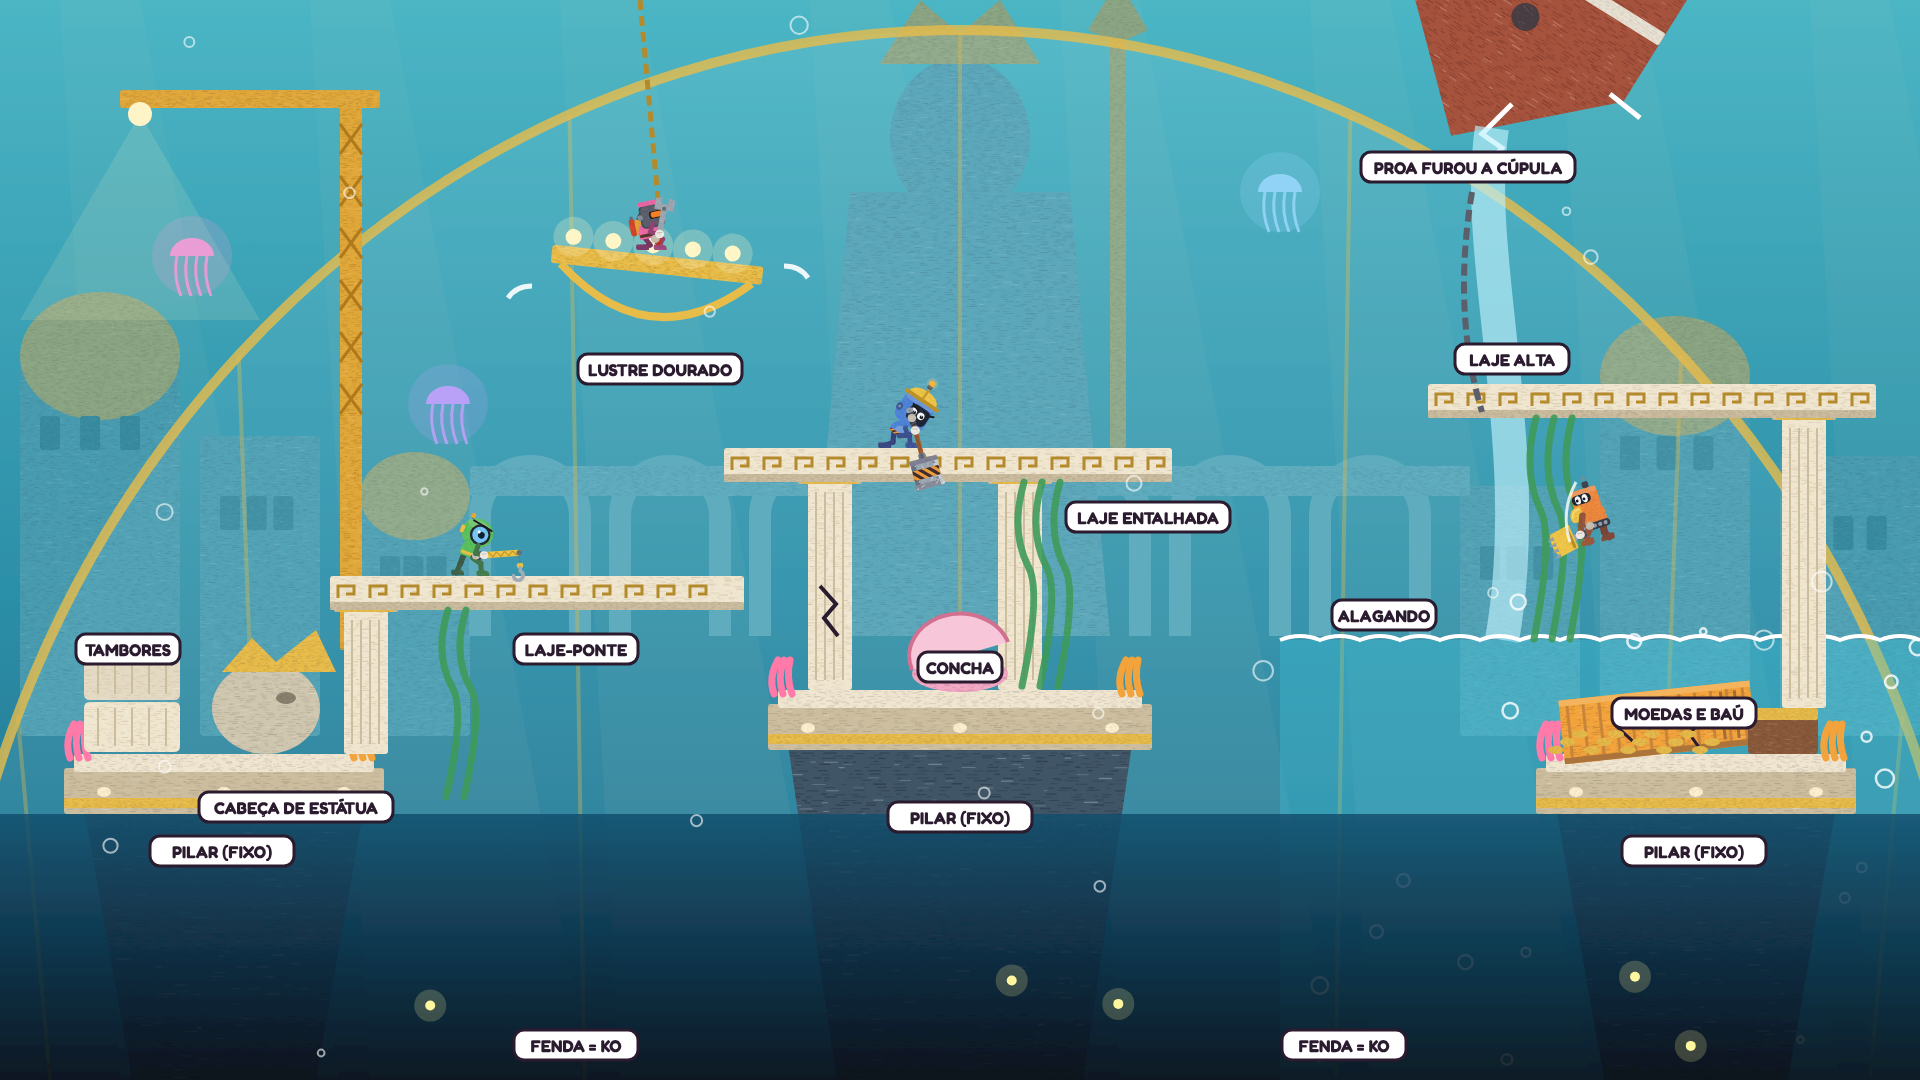
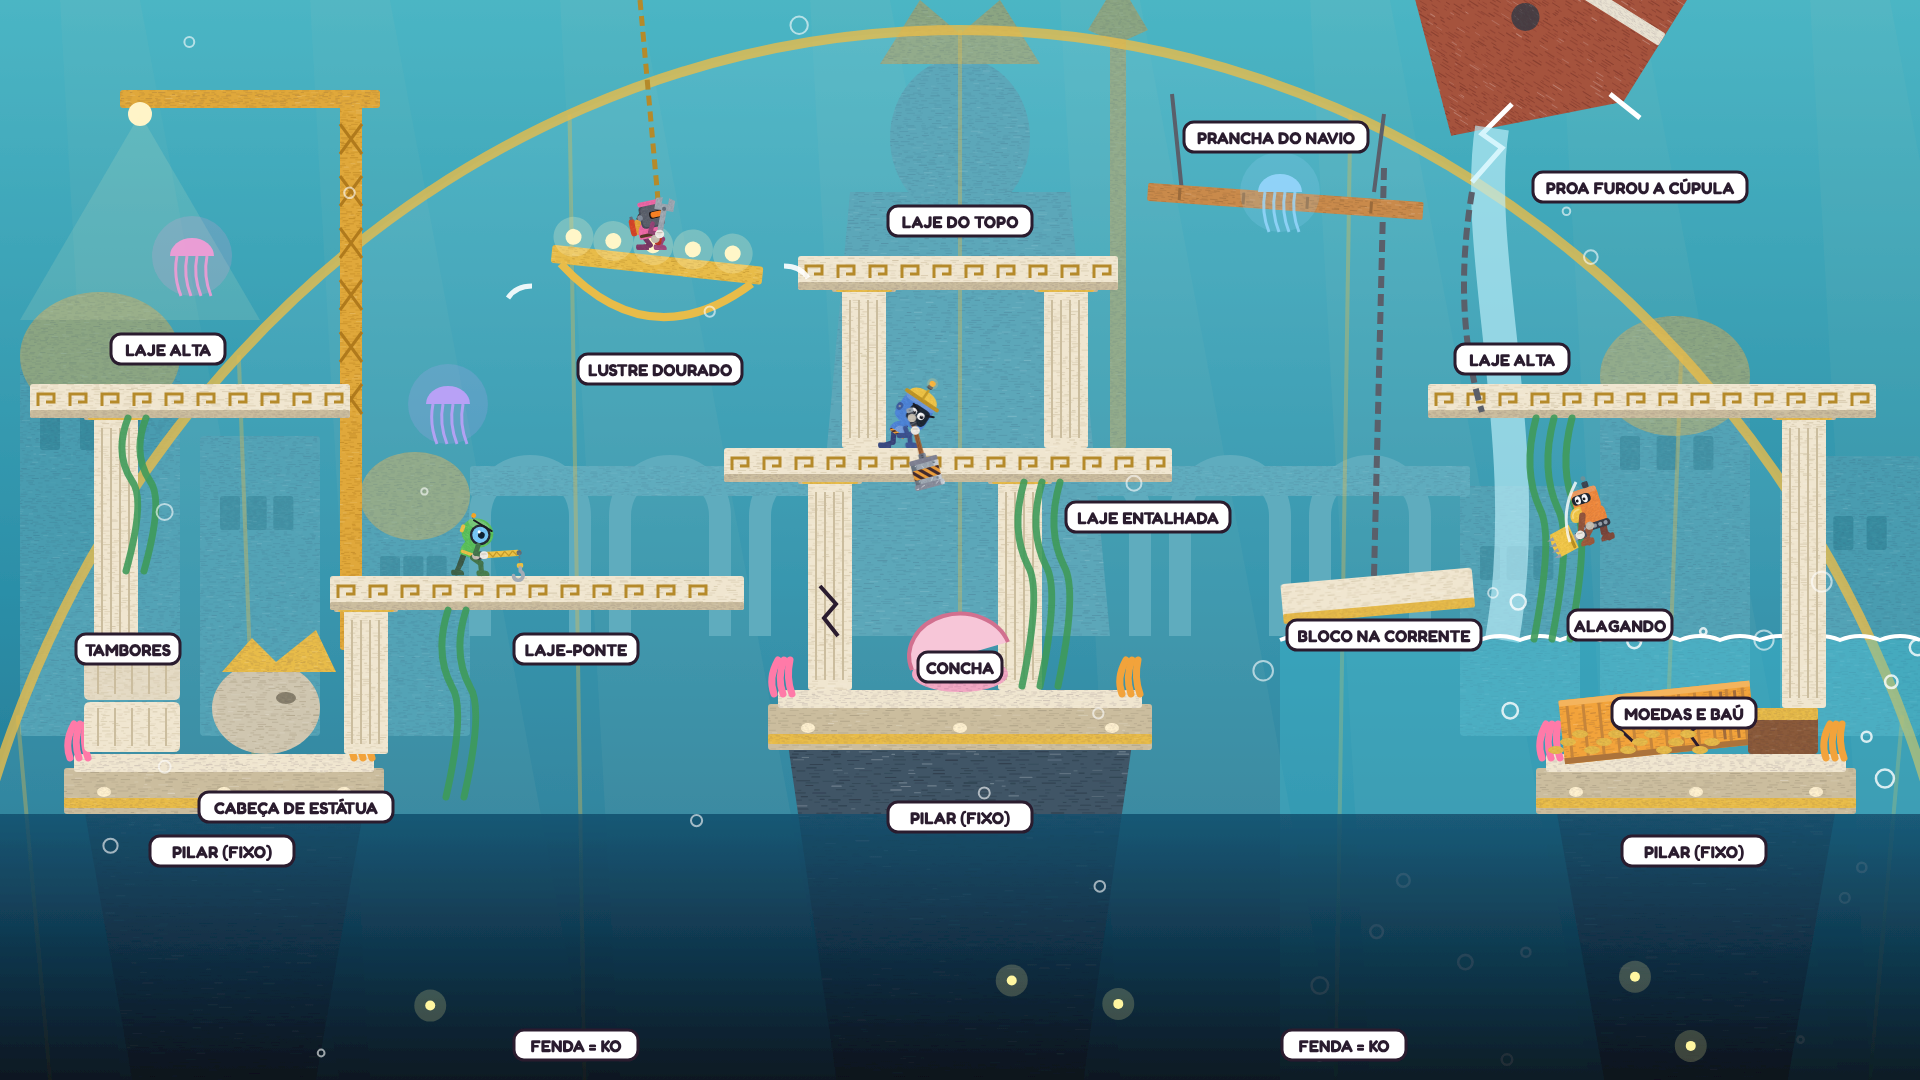
Cargueiro: composição dos Destroços em 3 andares e mais plataformas em Atlântida
Claude-Session: https://claude.ai/code/session_018QUPBQj4sLX3w64QQJCiVt

diff --git a/art/src/cenarios/f2_prancha.py b/art/src/cenarios/f2_prancha.py
@@ -354,7 +354,7 @@ def c2_navio_fundo():
         o += f'<path d="M1010,{372 + k * 90} q30,40 60,10" stroke="#c9a46a" stroke-width="3" fill="none"/>'
     o += f'<path d="M1120,300 l18,26 l-14,18 l20,24 l-16,22 l22,24 l-18,26 l20,22" stroke="{INK}" stroke-width="4" fill="none"/>'
     # contêineres escorregando pelo convés inclinado
-    for k, (x, c) in enumerate([(420, 0), (560, 3), (760, 1)]):
+    for k, (x, c) in enumerate([(700, 0), (860, 3)]):
         o += f'<g transform="rotate({8 - k * 6} {x} 260)">' + R(x, 216, 130, 44, shade(CONT[c], -0.1), 2, 1.0) + "</g>"
     o += gaivota(620, 210, 1.0, True) + gaivota(880, 212, 1.0, True)
     o += "</g>"
@@ -397,8 +397,14 @@ def c2_palco():
     for k in range(11):
         y = T + 20 + k * 64
         o += f'<path d="M{28 * T},{y} l26,40 M{28 * T + 26},{y} l-26,40" stroke="#b07a1e" stroke-width="3"/>'
-    o += R(11 * T, 1 * T - 14, 18 * T, 20, "#e0a83a", 3, 1.4) + R(28 * T - 30, 1 * T - 60, 80, 46, "#cfd3da", 3, 1.2)
+    o += R(3 * T, 1 * T - 14, 26 * T, 20, "#e0a83a", 3, 1.4) + R(28 * T - 30, 1 * T - 60, 80, 46, "#cfd3da", 3, 1.2)
     o += sign(23 * T + 30, 13 * T - 60, "BOTA-ABAIXO", 170)
+    # contêiner pendurado na ponta da lança (nível 5, esquerda) — QUEBRA, balança
+    o += f'<path d="M{5 * T},{1 * T + 6} L{4 * T + 40},{4 * T + 20} M{7 * T},{1 * T + 6} L{7 * T + 10},{4 * T + 20}" stroke="{INK}" stroke-width="3"/>'
+    o += f'<g transform="rotate(-4 {6 * T} {5 * T})">' + conteiner(4 * T + 20, 4 * T + 20, 3 * T + 10, T - 8, CONT[5], 0, True) + "</g>"
+    # tábua do meio (nível 9) ligando o arco à balsa, pendurada da lança por dois cabos
+    o += f'<path d="M{18 * T + 30},{1 * T + 6} V{9 * T} M{22 * T + 30},{1 * T + 6} V{9 * T}" stroke="{INK}" stroke-width="3"/>'
+    o += tabua(18 * T, 9 * T, 5 * T)
     # coqueiro torto e boia de sinalização na rocha da esquerda
     o += f'<path d="M{1 * T + 40},{12 * T} q-20,-120 50,-230" stroke="#8a6b4f" stroke-width="16" fill="none"/>'
     for a in range(5):
@@ -429,20 +435,20 @@ def c2_palco():
     # ---- QUEBRA: mastro-ponte (dos contêineres da esquerda até o pedaço do convés)
     o += f'<g transform="rotate(-10 {5 * T} {10 * T})">' + R(5 * T, 10 * T - 40, 7 * T, 18, "#9a9aa8", 3, 1.4, dark="#6b6b7a") + "</g>"
     # ---- QUEBRA: rede de carga no gancho (nível 5): caixas dentro, balança
-    o += f'<path d="M{17 * T},{1 * T + 6} L{17 * T + 10},{4 * T}" stroke="{INK}" stroke-width="4"/>'
-    o += f'<g transform="rotate(6 {17 * T} {5 * T})">'
+    o += f'<path d="M{17 * T - 4 * T},{1 * T + 6} L{17 * T + 10 - 4 * T},{4 * T}" stroke="{INK}" stroke-width="4"/>'
+    o += f'<g transform="translate({-4 * T},0) rotate(6 {17 * T} {5 * T})">'
     for k in range(3):
         o += R(15 * T + 50 + k * 66, 4 * T + 34, 60, 50, "#c98a4b" if k != 1 else "#b07a3e", 3, 1.0)
     o += f'<path d="M{15 * T + 40},{4 * T + 20} Q{17 * T},{5 * T + 70} {18 * T + 50},{4 * T + 20}" stroke="#5a4a3a" stroke-width="4" fill="none"/>'
     for k in range(6):
         o += f'<path d="M{15 * T + 50 + k * 34},{4 * T + 24} l20,56" stroke="#5a4a3a" stroke-width="3"/>'
     o += "</g>"
-    o += f'<path d="M{15 * T + 20},{5 * T + 10} q-16,0 -24,12 M{18 * T + 70},{5 * T} q16,0 24,12" stroke="#ffffff" stroke-width="5" fill="none" opacity="0.9"/>'
-    # ---- QUEBRA: contêineres na balsa + tábuas da torre (nível 6)
+    o += f'<path d="M{11 * T + 20},{5 * T + 10} q-16,0 -24,12 M{14 * T + 70},{5 * T} q16,0 24,12" stroke="#ffffff" stroke-width="5" fill="none" opacity="0.9"/>'
+    # ---- QUEBRA: contêineres na balsa + tábuas da torre (nível 5)
     o += conteiner(23 * T + 30, 12 * T, 3 * T, T, CONT[1], 0, True) + conteiner(26 * T + 20, 12 * T, 2 * T + 20, T, CONT[3], 1)
     o += conteiner(23 * T + 50, 11 * T, 3 * T - 10, T, CONT[6], 2)
-    o += tabua(21 * T, 6 * T, 7 * T - 10)
-    o += f'<path d="M{21 * T + 20},{1 * T + 6} V{6 * T}" stroke="{INK}" stroke-width="3"/>'
+    o += tabua(21 * T, 5 * T, 7 * T - 10)
+    o += f'<path d="M{21 * T + 20},{1 * T + 6} V{5 * T}" stroke="{INK}" stroke-width="3"/>'
     # vida: caranguejos e gaivota pousada
     for x, y in [(3 * T + 40, 10 * T - 4), (14 * T + 20, 11 * T - 10)]:
         o += E(x, y, 12, 8, "#e06a4a", 0.8) + f'<path d="M{x - 12},{y} l-8,-8 M{x + 12},{y} l8,-8" stroke="#e06a4a" stroke-width="3"/>'
@@ -453,9 +459,9 @@ def c2_palco():
 def c2_atores():
     o = robot("pa", "pesado_prep", el.COLORS[4], 3 * T, 10 * T - 4)
     o += robot("marretao", "rapido", el.COLORS[0], 14 * T + 20, 8 * T + 4)
-    o += robot("chave", "esquiva", el.COLORS[2], 17 * T, 4 * T + 30, flip=True)
+    o += robot("chave", "esquiva", el.COLORS[2], 13 * T, 4 * T + 30, flip=True)
     o += robot("britadeira", "pesado_golpe", el.COLORS[3], 7 * T + 60, MAR2 - 46)
-    o += f'<path d="M{16 * T + 20},{4 * T} h-50 M{16 * T + 26},{4 * T + 14} h-40" stroke="#ffffff" stroke-width="5" stroke-linecap="round" opacity="0.85"/>'
+    o += f'<path d="M{12 * T + 20},{4 * T} h-50 M{12 * T + 26},{4 * T + 14} h-40" stroke="#ffffff" stroke-width="5" stroke-linecap="round" opacity="0.85"/>'
     return o
 
 
@@ -470,7 +476,7 @@ def c2_frente():
     o += f'<text x="{W - 30}" y="{13 * T - 10}" font-family="Fredoka" font-weight="700" font-size="18" fill="#ffffff" text-anchor="end">maré alta</text>'
     o += tag(3 * T, 13 * T + 50, "ROCHA (FIXA)") + tag(15 * T, 12 * T + 40, "ROCHA-ARCO (FIXA)") + tag(26 * T, 13 * T + 50, "BALSA (FIXA)")
     o += tag(6 * T, 9 * T - 30, "CONTÊINER ABERTO") + tag(9 * T, 9 * T + 70, "MASTRO-PONTE") + tag(14 * T + 40, 9 * T + 30, "PEDAÇO DO CONVÉS")
-    o += tag(8 * T, MAR2 - 80, "BOTE VIRADO") + tag(10 * T + 60, MAR2 + 50, "JANGADA") + tag(19 * T + 60, 5 * T + 50, "REDE NO GANCHO") + tag(24 * T + 40, 5 * T + 40, "TÁBUAS")
+    o += tag(8 * T, MAR2 - 80, "BOTE VIRADO") + tag(10 * T + 60, MAR2 + 50, "JANGADA") + tag(15 * T + 60, 5 * T + 60, "REDE NO GANCHO") + tag(24 * T + 40, 4 * T + 40, "TÁBUAS") + tag(6 * T, 6 * T + 10, "CONTÊINER PENDURADO") + tag(20 * T + 40, 9 * T + 50, "TÁBUA")
     o += tag(5 * T, H - 34, "MAR FUNDO = KO") + tag(20 * T, H - 34, "MAR FUNDO = KO") + tag(940, 186, "NAVIO PARTIDO = FUNDO")
     return o
 
@@ -601,6 +607,15 @@ def c3_palco():
     o += E(4 * T + 10, 12 * T - 60, 54, 46, "#cfc6b0", 1.6, dark="#a89c82") + E(4 * T + 30, 12 * T - 70, 10, 6, "#8a826e", 0.6)
     o += PL([(3 * T + 30, 12 * T - 96), (3 * T + 60, 12 * T - 130), (4 * T + 20, 12 * T - 106), (4 * T + 60, 12 * T - 138), (4 * T + 80, 12 * T - 96)], OURO, 1.0)   # coroa
     o += coluna2(6 * T - 40, 9 * T + 34, 12 * T - 14) + laje2(5 * T + 10, 9 * T, 6 * T + 30) + alga(7 * T, 9 * T + 34, 2, 110)
+    # ---- QUEBRA (esquerda alta): coluna no pilar segura uma laje no nível 6
+    o += coluna2(1 * T + 30, 6 * T + 34, 12 * T - 14 - 104) + laje2(0 * T + 30, 6 * T, 5 * T) + alga(2 * T, 6 * T + 34, 2, 90)
+    # ---- QUEBRA (centro alto): colunas curtas sobre a laje do centro seguram uma laje no nível 4
+    o += coluna2(13 * T + 10, 4 * T + 34, 7 * T) + coluna2(16 * T + 20, 4 * T + 34, 7 * T) + laje2(12 * T + 30, 4 * T, 5 * T)
+    # ---- QUEBRA (direita, meio): bloco de mármore pendurado na corrente da proa (nível 9) e prancha do navio presa no alto (nível 3)
+    o += f'<path d="M{21 * T + 40},{2 * T + 40} L{21 * T + 30},{9 * T}" stroke="#5a5f6a" stroke-width="6" stroke-dasharray="12 6"/>'
+    o += f'<g transform="rotate(-5 {21 * T + 30} {9 * T})">' + R(20 * T, 9 * T, 3 * T, 40, MARM, 4, 1.6, dark=MARM_D) + R(20 * T, 9 * T + 30, 3 * T, 10, OURO, 2, 0.6) + "</g>"
+    o += f'<path d="M{18 * T + 20},{1 * T + 30} L{18 * T + 30},{3 * T} M{21 * T + 40},{1 * T + 50} L{21 * T + 30},{3 * T}" stroke="#5a5f6a" stroke-width="4"/>'
+    o += f'<g transform="rotate(4 {20 * T} {3 * T})">' + tabua(17 * T + 60, 3 * T, 4 * T + 20) + "</g>"
     # ---- QUEBRA (centro): duas colunas seguram a laje (nível 7); concha-trampolim no pilar
     o += coluna2(12 * T + 40, 7 * T + 34, 11 * T - 14, rachada=True) + coluna2(17 * T - 90, 7 * T + 34, 11 * T - 14)
     o += laje2(11 * T + 20, 7 * T, 7 * T) + alga(16 * T, 7 * T + 34, 3, 120)
@@ -662,9 +677,10 @@ def c3_frente():
         o += f'<circle cx="{rnd.uniform(0, W)}" cy="{rnd.uniform(0, H)}" r="{rnd.uniform(3, 10)}" fill="none" stroke="#ffffff" stroke-width="2" opacity="0.6"/>'
     o += tag(3 * T + 30, 13 * T + 20, "PILAR (FIXO)") + tag(15 * T, 12 * T + 50, "PILAR (FIXO)") + tag(26 * T + 30, 13 * T + 20, "PILAR (FIXO)")
     o += tag(17 * T + 60, 7 * T + 70, "LAJE ENTALHADA") + tag(9 * T, 10 * T + 10, "LAJE-PONTE") + tag(23 * T + 40, 5 * T + 40, "LAJE ALTA")
-    o += tag(10 * T + 20, 5 * T + 50, "LUSTRE DOURADO") + tag(2 * T, 10 * T + 10, "TAMBORES") + tag(4 * T + 40, 12 * T + 40, "CABEÇA DE ESTÁTUA")
-    o += tag(15 * T, 12 * T - 100, "CONCHA") + tag(26 * T + 20, 11 * T + 10, "MOEDAS E BAÚ") + tag(22 * T + 60, 2 * T + 40, "PROA FUROU A CÚPULA")
-    o += tag(21 * T + 40, 9 * T + 40, "ALAGANDO") + tag(9 * T, H - 34, "FENDA = KO") + tag(21 * T, H - 34, "FENDA = KO")
+    o += tag(10 * T + 20, 5 * T + 50, "LUSTRE DOURADO") + tag(2 * T + 40, 5 * T + 30, "LAJE ALTA") + tag(15 * T, 3 * T + 30, "LAJE DO TOPO")
+    o += tag(21 * T + 40, 10 * T - 4, "BLOCO NA CORRENTE") + tag(19 * T + 60, 2 * T + 10, "PRANCHA DO NAVIO") + tag(2 * T, 10 * T + 10, "TAMBORES") + tag(4 * T + 40, 12 * T + 40, "CABEÇA DE ESTÁTUA")
+    o += tag(15 * T, 12 * T - 100, "CONCHA") + tag(26 * T + 20, 11 * T + 10, "MOEDAS E BAÚ") + tag(25 * T + 40, 2 * T + 60, "PROA FUROU A CÚPULA")
+    o += tag(25 * T + 20, 9 * T + 50, "ALAGANDO") + tag(9 * T, H - 34, "FENDA = KO") + tag(21 * T, H - 34, "FENDA = KO")
     return o
 
 
